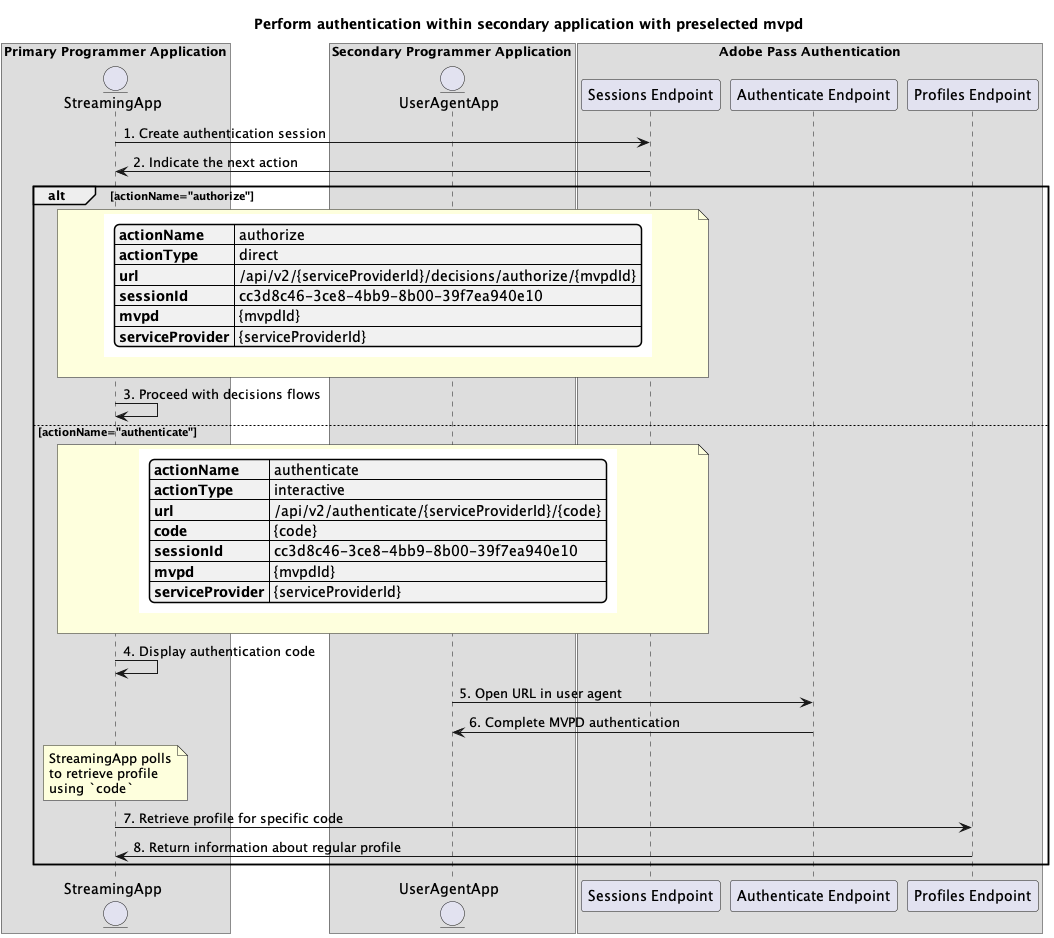
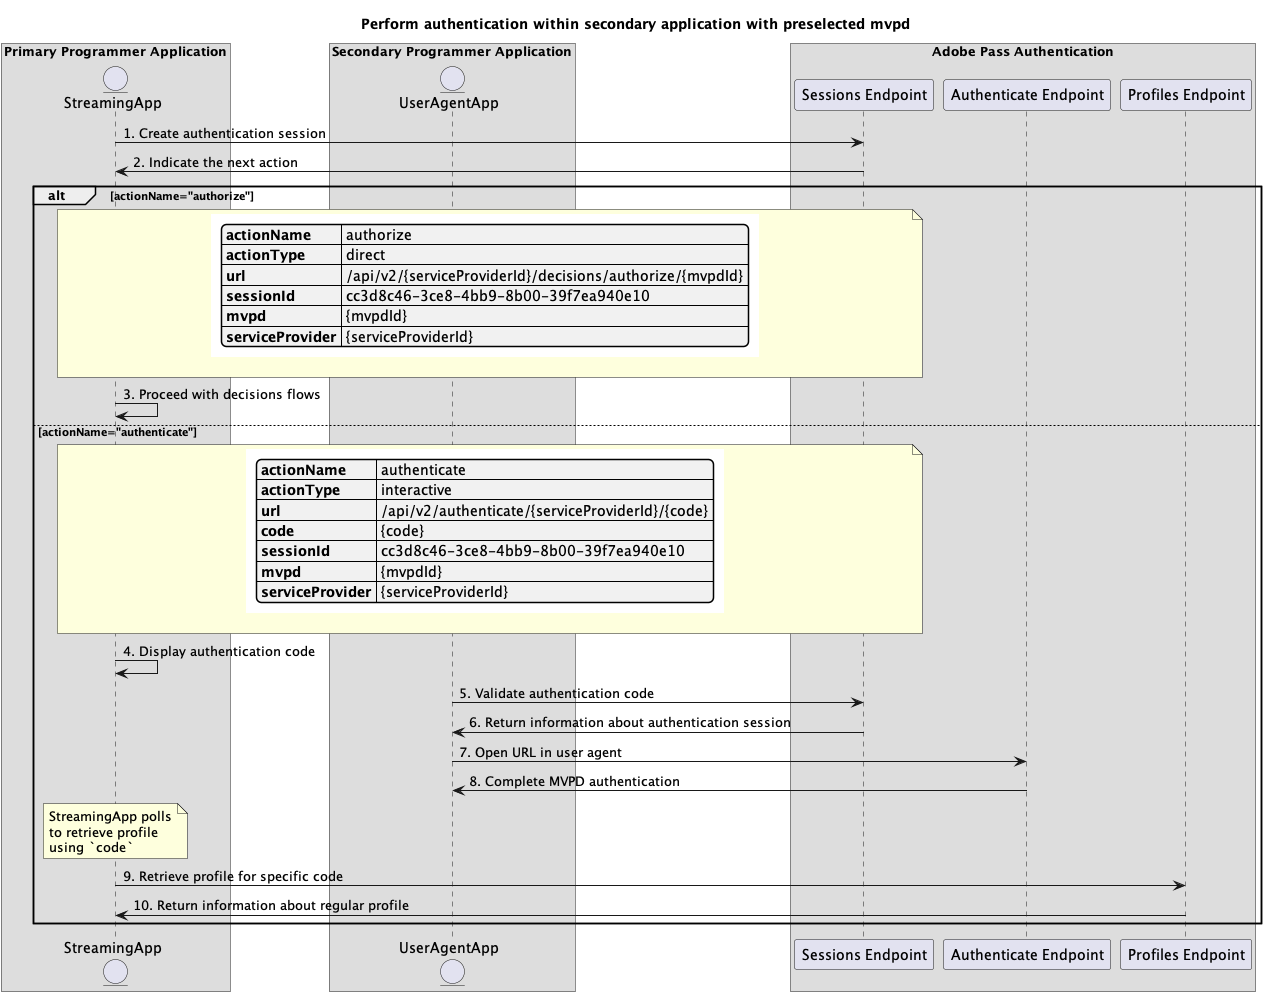
[ADDENDUM] Documentation - Experience League - REST API v2 (#117)

diff --git a/help/authentication/rest-api-v2/apis/sessions-apis/rest-api-v2-sessions-apis-perform-authentication-in-user-agent.md b/help/authentication/rest-api-v2/apis/sessions-apis/rest-api-v2-sessions-apis-perform-authentication-in-user-agent.md
@@ -1,0 +1,155 @@
+---
+title: Perform authentication in user agent
+description: REST API V2 - Perform authentication in user agent
+---
+
+# Perform authentication in user agent {#perform-authentication-in-user-agent}
+
+>[!IMPORTANT]
+>
+> The content on this page is provided for information purposes only. Usage of this API requires a current license from Adobe. No unauthorized use is permitted.
+
+>[!IMPORTANT]
+>
+> REST API V2 implementation is bounded by the [Throttling mechanism](/help/authentication/throttling-mechanism.md) documentation.
+
+## Request {#request}
+
+<table style="table-layout:auto">
+   <tr>
+      <th style="background-color: #EFF2F7;">HTTP</th>
+      <th style="background-color: #EFF2F7;"></th>
+      <th style="background-color: #EFF2F7;"></th>
+   </tr>
+   <tr>
+      <td style="background-color: #DEEBFF;">path</td>
+      <td>/api/v2/authenticate/{serviceProvider}/{code}</td>
+      <td></td>
+   </tr>
+   <tr>
+      <td style="background-color: #DEEBFF;">method</td>
+      <td>GET</td>
+      <td></td>
+   </tr>
+   <tr>
+      <th style="background-color: #EFF2F7;">Path Parameters</th>
+      <th style="background-color: #EFF2F7;"></th>
+      <th style="background-color: #EFF2F7;"></th>
+   </tr>
+   <tr>
+      <td style="background-color: #DEEBFF;">serviceProvider</td>
+      <td>The internal unique identifier associated with the Service Provider during onboarding process.</td>
+      <td><i>required</i></td>
+   </tr>
+   <tr>
+      <td style="background-color: #DEEBFF;">code</td>
+      <td>The authentication code obtained after creating the authentication session on the streaming device.</td>
+      <td><i>required</i></td>
+   </tr>
+   <tr>
+      <th style="background-color: #EFF2F7;">Headers</th>
+      <th style="background-color: #EFF2F7;"></th>
+      <th style="background-color: #EFF2F7;"></th>
+   </tr>
+   <tr>
+      <td style="background-color: #DEEBFF;">User-Agent</td>
+      <td>The user agent of the client application.</td>
+      <td>optional</td>
+   </tr>
+</table>
+
+## Response {#response}
+
+<table style="table-layout:auto">
+   <tr>
+      <th style="background-color: #EFF2F7;">Code</th>
+      <th style="background-color: #EFF2F7;">Text</th>
+      <th style="background-color: #EFF2F7;">Description</th>
+   </tr>
+   <tr>
+      <td>302</td>
+      <td>Found</td>
+      <td>
+        The response body contains a location redirect to continue the flow until reaching the MVPD login page
+      </td>
+   </tr>
+   <tr>
+      <td>400</td>
+      <td>Bad Request</td>
+      <td>
+        The request is invalid, the client needs to correct the request and try again.
+      </td>
+   </tr>
+   <tr>
+      <td>405</td>
+      <td>Method Not Allowed</td>
+      <td>
+        The HTTP method is invalid, the client needs to use an HTTP method that is permitted for the requested resource and try again. For more details refer to the <a href="#request">Request</a> section.
+      </td>
+   </tr>
+   <tr>
+      <td>500</td>
+      <td>Internal Server Error</td>
+      <td>
+        The server side encountered an issue.
+      </td>
+   </tr>
+</table>
+
+### Success {#success}
+
+The successful response is a series of one or multiple redirects until reaching the MVPD login page.
+
+### Error {#error}
+
+<table style="table-layout:auto">
+   <tr>
+      <th style="background-color: #EFF2F7;">Headers</th>
+      <th style="background-color: #EFF2F7;"></th>
+      <th style="background-color: #EFF2F7;"></th>
+   </tr>
+   <tr>
+      <td style="background-color: #DEEBFF;">Status</td>
+      <td>400, 405, 500</td>
+      <td><i>required</i></td>
+   </tr>
+   <tr>
+      <td style="background-color: #DEEBFF;">Content-Type</td>
+      <td>text/html</td>
+      <td><i>required</i></td>
+   </tr>
+   <tr>
+      <th style="background-color: #EFF2F7;">Body</th>
+      <th style="background-color: #EFF2F7;"></th>
+      <th style="background-color: #EFF2F7;"></th>
+   </tr>
+   <tr>
+      <td style="background-color: #DEEBFF;">-</td>
+      <td>-</td>
+      <td>-</td>
+   </tr>
+</table>
+
+## Samples {#samples}
+
+### 1. Perform authentication in user agent
+
+>[!BEGINTABS]
+
+>[!TAB Request]
+
+```JSON 
+GET /api/v2/authenticate/REF30/8KHP9RW
+
+User-Agent: Mozilla/5.0 (Apple TV; U; CPU AppleTV5,3 OS 14.5 like Mac OS X; en_US)
+```
+
+>[!TAB Response]
+
+```JSON
+HTTP/1.1 302 OK
+
+Location :  https://sp.auth.adobe.com/adobe-services/authenticate/saml?noflash=true&mso_id=Cablevision&requestor_id=REF30&no_iframe=false&domain_name=adobe.com&redirect_url=http%3A%2F%2Fadobe.com%2Fapitest%2Flive.html
+```
+
+>[!ENDTABS]

diff --git a/help/authentication/rest-api-v2/flows/basic-access-flows/rest-api-v2-basic-authentication-secondary-application-flow.md b/help/authentication/rest-api-v2/flows/basic-access-flows/rest-api-v2-basic-authentication-secondary-application-flow.md
@@ -103,7 +103,46 @@ Follow the given steps to implement the basic authentication flow performed with
 
    If the Adobe Pass backend does not identify a valid profile, the streaming application displays the `code` that can be used to resume the authentication session within a secondary application.
 
+1. **Validate authentication code:** The secondary application validates the user provided `code` to ensure it can proceed with MVPD authentication in user agent. 
+
+   >[!IMPORTANT]
+   >
+   > Refer to the [Retrieve authentication session information](../../apis/sessions-apis/rest-api-v2-sessions-apis-retrieve-authentication-session-information-using-code.md) API documentation for details on:
+   >
+   > * All the _required_ parameters, like `serviceProvider` and `code`
+   > * All the _required_ headers, like `Authorization`
+   > * All the _optional_ parameters and headers
+
+1. **Return information about authentication session:** The Sessions endpoint response contains the following data:
+   * The `existing` attribute contains the existing parameters that were already provided.
+   * The `missing` attribute contains the missing parameters that need to be provided in order to complete the authentication flow.
+
+   >[!IMPORTANT]
+   >
+   > Refer to the [Retrieve authentication session information](../../apis/sessions-apis/rest-api-v2-sessions-apis-retrieve-authentication-session-information-using-code.md) API documentation for details on the information provided in a session validation response.
+   >
+   > <br/>
+   >
+   > The Sessions endpoint validates the request data to ensure that basic conditions are met:
+   >
+   > * The _required_ parameters and headers must be valid.
+   >
+   > <br/>
+   >
+   > If validation fails, an error response will be generated, providing additional information that adheres to the [Enhanced Error Codes](../../../enhanced-error-codes.md) documentation.
+
+   >[!NOTE]
+   >
+   > Suggestion: The secondary application can inform users that the `code` used is invalid in the event of an error response indicating a missing authentication session, and advise them to retry using a new one.
+   
 1. **Open URL in user agent:** The secondary application opens a user agent to load the self computed `url`, making a request to the Authenticate endpoint. This flow may include several redirects, ultimately leading the user to the MVPD login page and provide valid credentials.
+
+   >[!IMPORTANT]
+   >
+   > Refer to the [Perform authentication in user agent](../../apis/sessions-apis/rest-api-v2-sessions-apis-perform-authentication-in-user-agent.md) API documentation for details on:
+   >
+   > * All the _required_ parameters, like `serviceProvider` and `code`
+   > * All the _optional_ parameters and headers
 
 1. **Complete MVPD authentication:** If the authentication flow is successful, the user agent interaction saves a regular profile in Adobe Pass backend and reaches the provided `redirectUrl`.
 
@@ -225,6 +264,10 @@ Follow the given steps to implement the basic authentication flow performed with
    > <br/>
    > 
    > If validation fails, an error response will be generated, providing additional information that adheres to the [Enhanced Error Codes](../../../enhanced-error-codes.md) documentation.
+
+   >[!NOTE]
+   >
+   > Suggestion: The secondary application can inform users that the `code` used is invalid in the event of an error response indicating a missing authentication session, and advise them to retry using a new one.
 
 1. **Indicate existing profile:** The Sessions endpoint response contains the following data:
    * The `actionName` attribute is set to "authorize".

diff --git a/help/authentication/rest-api-v2/apis/rest-api-v2-apis-overview.md b/help/authentication/rest-api-v2/apis/rest-api-v2-apis-overview.md
@@ -1,9 +1,9 @@
 ---
-title: REST API V2 - Flows - Overview
-description: REST API V2 - Flows - Overview
+title: REST API V2 - APIs - Overview
+description: REST API V2 - APIs - Overview
 ---
 
-# REST API V2 APIs Overview {#rest-api-v2-apis-overview}
+# REST API V2 - APIs - Overview {#rest-api-v2-apis-overview}
 
 >[!IMPORTANT]
 >
@@ -13,32 +13,42 @@ description: REST API V2 - Flows - Overview
 >
 > REST API V2 implementation is bounded by the [Throttling mechanism](/help/authentication/throttling-mechanism.md) documentation.
 
-## Configuration {#rest-api-v2-apis-configuration}
+## Want to try our REST API V2?
+
+You can now explore the Adobe Pass Authentication REST API V2 through our product-dedicated page from [Adobe Developer](https://developer.adobe.com/adobe-pass/) website.
+
+Our dedicated support team is also available to help you with any questions or technical assistance you may need.
+
+## REST API V2 - APIs {#rest-api-v2-apis}
+
+To get started, visit our public documentation for each entry from [REST API V2 - APIs](./rest-api-v2-apis-overview.md) and [REST API V2 - Flows](../flows/rest-api-v2-flows-overview.md).
+
+### Configuration {#rest-api-v2-apis-configuration}
 
 * [Retrieve configuration for specific service provider](configuration-apis/rest-api-v2-configuration-apis-retrieve-configuration-for-specific-service-provider.md)
 
-## Sessions {#rest-api-v2-apis-sessions}
+### Sessions {#rest-api-v2-apis-sessions}
 
 * [Create authentication session](sessions-apis/rest-api-v2-sessions-apis-create-authentication-session.md)
 * [Resume authentication session](sessions-apis/rest-api-v2-sessions-apis-resume-authentication-session.md)
 * [Retrieve authentication session](sessions-apis/rest-api-v2-sessions-apis-retrieve-authentication-session-information-using-code.md)
 
-## Profiles {#rest-api-v2-apis-profiles}
+### Profiles {#rest-api-v2-apis-profiles}
 
 * [Retrieve profiles](profiles-apis/rest-api-v2-profiles-apis-retrieve-profiles.md)
 * [Retrieve profile for specific mvpd](profiles-apis/rest-api-v2-profiles-apis-retrieve-profile-for-specific-mvpd.md)
 * [Retrieve profile for specific code](profiles-apis/rest-api-v2-profiles-apis-retrieve-profile-for-specific-code.md)
 
-## Decisions {#rest-api-v2-apis-decisions}
+### Decisions {#rest-api-v2-apis-decisions}
 
 * [Retrieve authorization decisions using specific mvpd](decisions-apis/rest-api-v2-decisions-apis-retrieve-authorization-decisions-using-specific-mvpd.md)
 * [Retrieve preauthorization decisions using specific mvpd](decisions-apis/rest-api-v2-decisions-apis-retrieve-preauthorization-decisions-using-specific-mvpd.md)
 
-## Logout {#rest-api-v2-apis-logout}
+### Logout {#rest-api-v2-apis-logout}
 
 * [Initiate logout for specific mvpd](logout-apis/rest-api-v2-logout-apis-initiate-logout-for-specific-mvpd.md)
 
-## Partner Single Sign-On {#rest-api-v2-apis-partner-single-sign-on}
+### Partner Single Sign-On {#rest-api-v2-apis-partner-single-sign-on}
 
 * [Retrieve partner authentication request](partner-single-sign-on-apis/rest-api-v2-partner-single-sign-on-apis-retrieve-partner-authentication-request.md)
 * [Retrieve profile using partner authentication response](partner-single-sign-on-apis/rest-api-v2-partner-single-sign-on-apis-retrieve-profile-using-partner-authentication-response.md)

diff --git a/help/authentication/rest-api-v2/flows/rest-api-v2-flows-overview.md b/help/authentication/rest-api-v2/flows/rest-api-v2-flows-overview.md
@@ -3,7 +3,7 @@ title: REST API V2 - Flows - Overview
 description: REST API V2 - Flows - Overview
 ---
 
-# REST API V2 Flows Overview {#rest-api-v2-flows-overview}
+# REST API V2 - Flows - Overview {#rest-api-v2-flows-overview}
 
 >[!IMPORTANT]
 >
@@ -13,7 +13,17 @@ description: REST API V2 - Flows - Overview
 >
 > REST API V2 implementation is bounded by the [Throttling mechanism](/help/authentication/throttling-mechanism.md) documentation.
 
-## Basic Access Flows {#rest-api-v2-flows-access-basic}
+## Want to try our REST API V2?
+
+You can now explore the Adobe Pass Authentication REST API V2 through our product-dedicated page from [Adobe Developer](https://developer.adobe.com/adobe-pass/) website.
+
+Our dedicated support team is also available to help you with any questions or technical assistance you may need.
+
+## REST API V2 - Flows {#rest-api-v2-flows}
+
+To get started, visit our public documentation for each supported flow.
+
+### Basic Access Flows {#rest-api-v2-flows-access-basic}
 
 * [Basic profiles flow performed within primary application](./basic-access-flows/rest-api-v2-basic-profiles-primary-application-flow.md)
 * [Basic profiles flow performed within secondary application](./basic-access-flows/rest-api-v2-basic-profiles-secondary-application-flow.md)
@@ -23,15 +33,15 @@ description: REST API V2 - Flows - Overview
 * [Basic preauthorization flow performed within primary application](./basic-access-flows/rest-api-v2-basic-preauthorization-primary-application-flow.md)
 * [Basic logout flow performed within primary application](./basic-access-flows/rest-api-v2-basic-logout-primary-application-flow.md)
 
-## Degraded Access Flows {#rest-api-v2-flows-access-degraded}
+### Degraded Access Flows {#rest-api-v2-flows-access-degraded}
 
 * [Degraded access flows](./degraded-access-flows/rest-api-v2-access-degraded-flows.md)
 
-## Temporary Access Flows {#rest-api-v2-flows-access-temporary}
+### Temporary Access Flows {#rest-api-v2-flows-access-temporary}
 
 * [Temporary access flows](./temporary-access-flows/rest-api-v2-access-temporary-flows.md)
 
-## Single Sign-On Access Flows {#rest-api-v2-flows-access-single-sign-on}
+### Single Sign-On Access Flows {#rest-api-v2-flows-access-single-sign-on}
 
 * [Single sign-on using partner flows](./single-sign-on-access-flows/rest-api-v2-single-sign-on-partner-flows.md)
 * [Single sign-on using platform identity flows](./single-sign-on-access-flows/rest-api-v2-single-sign-on-platform-identity-flows.md)

diff --git a/help/authentication/TOC.md b/help/authentication/TOC.md
@@ -55,6 +55,7 @@ user-guide-description: Adobe Pass Authentication is an entitlement solution for
                 + [Create authentication session](./rest-api-v2/apis/sessions-apis/rest-api-v2-sessions-apis-create-authentication-session.md)
                 + [Resume authentication session](./rest-api-v2/apis/sessions-apis/rest-api-v2-sessions-apis-resume-authentication-session.md)
                 + [Retrieve authentication session](./rest-api-v2/apis/sessions-apis/rest-api-v2-sessions-apis-retrieve-authentication-session-information-using-code.md)
+                + [Perform authentication in user agent](./rest-api-v2/apis/sessions-apis/rest-api-v2-sessions-apis-perform-authentication-in-user-agent.md)
             + Profiles {#rest-api-v2-profiles-apis}
                 + [Retrieve profiles](./rest-api-v2/apis/profiles-apis/rest-api-v2-profiles-apis-retrieve-profiles.md)
                 + [Retrieve profile for specific mvpd](./rest-api-v2/apis/profiles-apis/rest-api-v2-profiles-apis-retrieve-profile-for-specific-mvpd.md)

diff --git a/help/authentication/rest-api-v2/apis/sessions-apis/rest-api-v2-sessions-apis-resume-authentication-session.md b/help/authentication/rest-api-v2/apis/sessions-apis/rest-api-v2-sessions-apis-resume-authentication-session.md
@@ -41,7 +41,7 @@ description: REST API V2 - Resume authentication session
       <td>The internal unique identifier associated with the Service Provider during onboarding process.</td>
       <td><i>required</i></td>
    </tr>
-    <tr>
+   <tr>
       <td style="background-color: #DEEBFF;">code</td>
       <td>The authentication code obtained after creating the authentication session on the streaming device.</td>
       <td><i>required</i></td>

diff --git a/help/authentication/rest-api-v2/apis/profiles-apis/rest-api-v2-profiles-apis-retrieve-profile-for-specific-code.md b/help/authentication/rest-api-v2/apis/profiles-apis/rest-api-v2-profiles-apis-retrieve-profile-for-specific-code.md
@@ -23,7 +23,7 @@ description: REST API V2 - Retrieve profile for specific code
    </tr>
    <tr>
       <td style="background-color: #DEEBFF;">path</td>
-      <td>/api/v2/{serviceProvider}/profiles/{code}</td>
+      <td>/api/v2/{serviceProvider}/profiles/code/{code}</td>
       <td></td>
    </tr>
    <tr>
